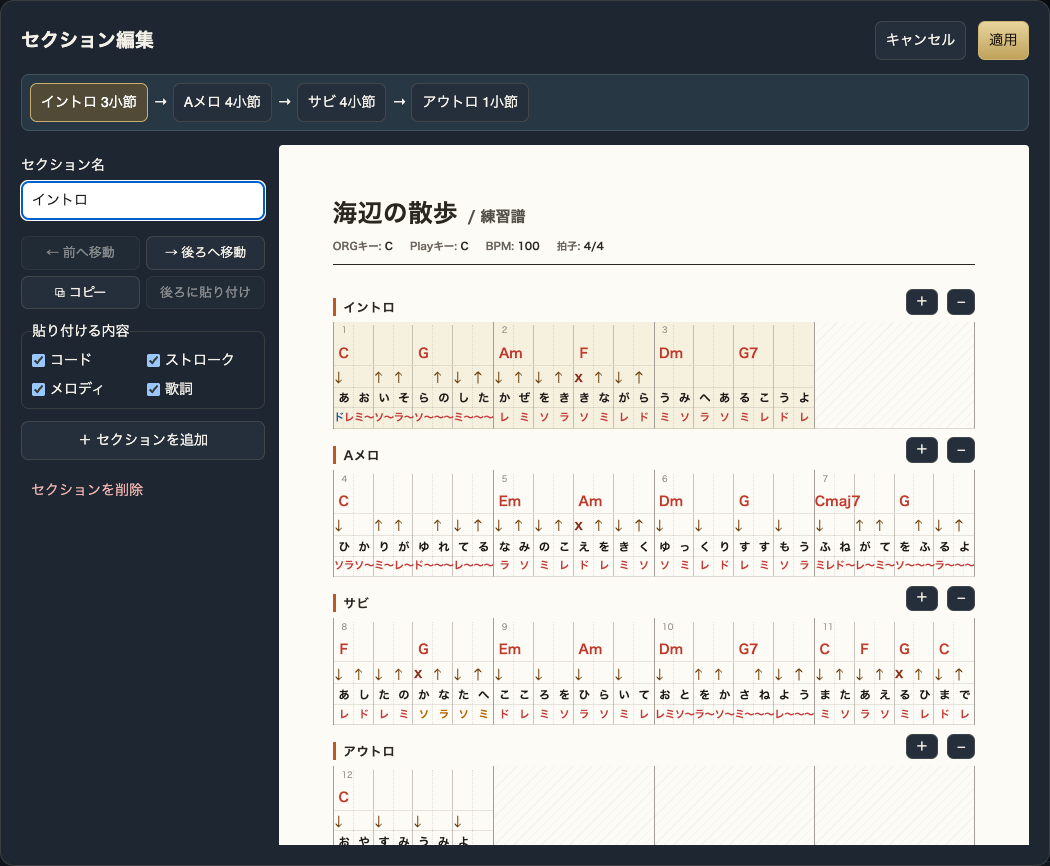
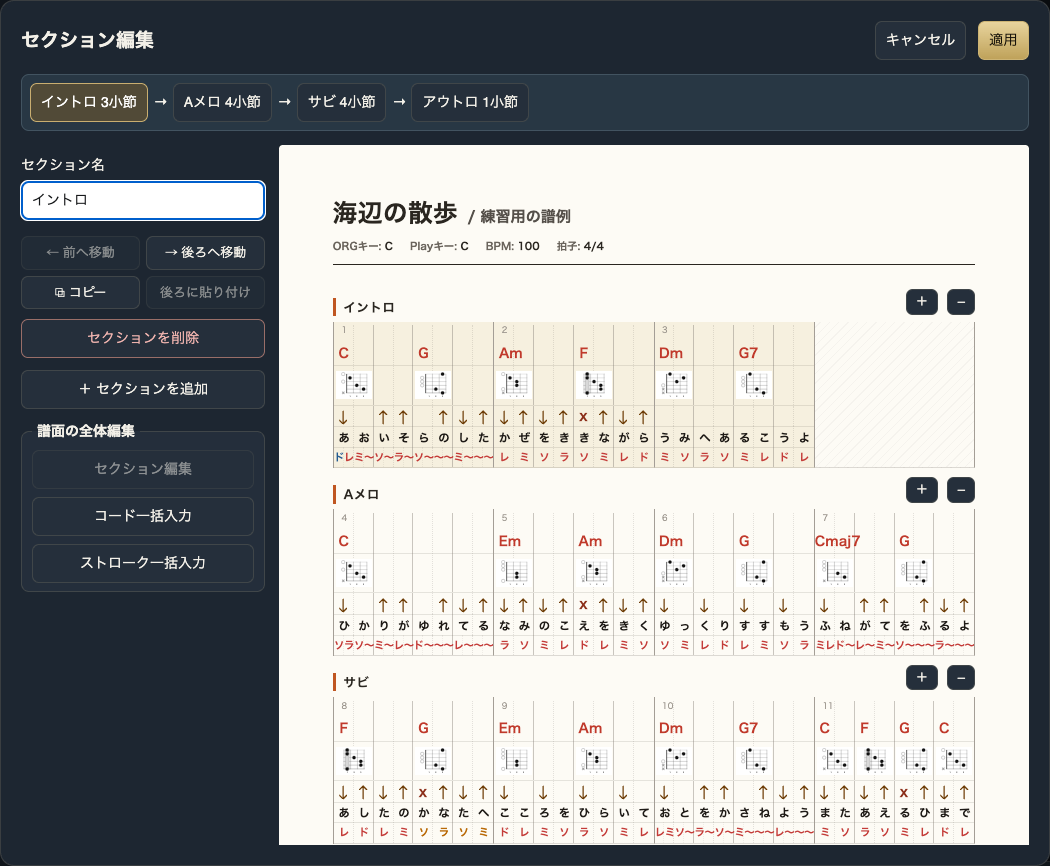
Simplify section editing, preserve draft navigation and import bookshelf fingerings

Changed region(s): [[0.3048, 0.4053, 0.9448, 0.9977], [0.0305, 0.3741, 0.2438, 0.6859], [0.4876, 0.2182, 0.5486, 0.2806]]

diff --git a/apps/cruise-studio/score-guide/index.html b/apps/cruise-studio/score-guide/index.html
@@ -10,7 +10,7 @@
 #browser-saving h3{margin:0}#browser-saving dl{margin-bottom:0}#browser-saving dt{padding-top:.7rem;border-top:1px solid #e0dbce}#browser-saving dd+dd{margin-top:.4em}
 .save-recommendation{text-decoration:underline;text-decoration-color:#b39050;text-underline-offset:.22em;text-decoration-thickness:2px}
 </style>
-<header id="top"><p>Cruise Studio · Ver. 0.224.0-rc.1</p><h1>譜面クルーズ 取扱説明書</h1><p>曲を作り、小節に演奏を入力し、印刷・配布するまでの操作を説明します。チュートリアルでは「そらまで」、機能別の解説では「海辺の散歩」を使います。</p></header>
+<header id="top"><p>Cruise Studio · Ver. 0.225.0-rc.1</p><h1>譜面クルーズ 取扱説明書</h1><p>曲を作り、小節に演奏を入力し、印刷・配布するまでの操作を説明します。チュートリアルでは「そらまで」、機能別の解説では「海辺の散歩」を使います。</p></header>
 <section id="overview" class="opening"><h2>画面の見かた</h2><p>操作は上、譜面は中央、再生は下にあります。左のスタジオメニューから他のツールにも移動できます。</p>
 <figure><div class="capture"><img src="overview.png" width="1440" height="1000" alt="スタジオの中で譜面クルーズを開いた画面全体"><svg aria-hidden="true" viewBox="0 0 1440 1000"><rect x="241" y="178" width="1159" height="201" rx="5" fill="none" stroke="#c32820" stroke-width="3"/><circle cx="238" cy="175" r="20" fill="#ab271e" stroke="white" stroke-width="2"/><text x="238" y="182.6" text-anchor="middle" font-family="sans-serif" font-size="24" font-weight="bold" fill="white">1</text><rect x="481" y="594" width="678" height="111" rx="5" fill="none" stroke="#c32820" stroke-width="3"/><circle cx="478" cy="591" r="20" fill="#ab271e" stroke="white" stroke-width="2"/><text x="478" y="598.6" text-anchor="middle" font-family="sans-serif" font-size="24" font-weight="bold" fill="white">2</text><rect x="241" y="929" width="1159" height="60" rx="5" fill="none" stroke="#c32820" stroke-width="3"/><circle cx="238" cy="926" r="20" fill="#ab271e" stroke="white" stroke-width="2"/><text x="238" y="933.6" text-anchor="middle" font-family="sans-serif" font-size="24" font-weight="bold" fill="white">3</text></svg></div><figcaption><ul class="legend"><li><b>1</b>上部カードで曲とツールを選ぶ</li><li><b>2</b>譜面で編集・再生する小節を選ぶ</li><li><b>3</b>再生、テンポ、音量を操作する</li></ul></figcaption></figure>
 <p><a href="#lesson">最初の1曲を作ってみる ↓</a></p></section>
@@ -66,12 +66,12 @@
 <section id="song"><h2>曲情報・キー・カポ</h2><p>譜面のタイトル、BPM、拍子、ORGキー、Playキー、またはメニューの「曲情報」を押します。曲名・アーティスト・テンポ・拍子は右の譜面で確かめてから「適用」します。</p><figure><div class="capture"><img src="song.png" width="1120" height="800" alt="左で曲情報を設定し、右の譜面で確認する画面"><svg aria-hidden="true" viewBox="0 0 1120 799"><rect x="22" y="111" width="257" height="37" rx="5" fill="none" stroke="#c32820" stroke-width="3"/><circle cx="19" cy="108" r="13" fill="#ab271e" stroke="white" stroke-width="2"/><text x="19" y="112.9" text-anchor="middle" font-family="sans-serif" font-size="16" font-weight="bold" fill="white">1</text><rect x="22" y="336" width="257" height="34" rx="5" fill="none" stroke="#c32820" stroke-width="3"/><circle cx="19" cy="333" r="13" fill="#ab271e" stroke="white" stroke-width="2"/><text x="19" y="337.9" text-anchor="middle" font-family="sans-serif" font-size="16" font-weight="bold" fill="white">2</text><rect x="1049" y="22" width="49" height="37" rx="5" fill="none" stroke="#c32820" stroke-width="3"/><circle cx="1046" cy="19" r="13" fill="#ab271e" stroke="white" stroke-width="2"/><text x="1046" y="23.9" text-anchor="middle" font-family="sans-serif" font-size="16" font-weight="bold" fill="white">3</text></svg></div><figcaption><ul class="legend"><li><b>1</b>曲名を入力</li><li><b>2</b>拍子を選択</li><li><b>3</b>曲情報を適用</li></ul></figcaption></figure><p>ORGキーは原曲の調、Playキーは演奏に使うキー・カポの組み合わせです。「移調・カポの変更前後を確認」またはメニューの「キー・カポ」を開き、コードの変更前後を見比べて適用します。「曲情報」画面の左下には「セクション編集」「コード一括入力」「ストローク一括入力」もあります。</p></section>
 <section id="bars"><h2>小節を選ぶ・移動する</h2><p>小節をクリックすると上部カードに小節操作が出ます。続けて同じ小節をクリックするか「編集」で入力へ進みます。複数小節は先頭から末尾へドラッグするか、最初をクリックして最後をShift＋クリックします。譜面の余白で選択を解除します。</p><dl><dt>小節追加・複製</dt><dd>選択位置の後ろに空の小節、または選んだ内容のコピーを追加します。</dd><dt>コピー・貼り付け</dt><dd>元の範囲をコピーし、貼り始める位置を選びます。「上書き貼り付け」は既存の位置を置き換え、「挿入して貼り付け」は後ろの小節を送ります。</dd><dt>移動</dt><dd>前へ・後ろへ移動するボタンで並びを変えます。セクション境界では移動後の所属も確認します。</dd><dt>削除</dt><dd>「枠を残して削除」は譜面上の場所を空き枠として残します。「詰めて削除」は後ろの小節を前へ詰めます。空き枠は再生されません。</dd></dl></section>
 <section id="edit"><h2>小節編集と鍵盤・フォーム入力</h2><figure><div class="capture"><img src="editor.png" width="960" height="339" alt="小節編集のコード・ストローク・歌詞・メロディの行と拍の区切り"><svg aria-hidden="true" viewBox="0 0 960 338"><rect x="113" y="71" width="101" height="40" rx="5" fill="none" stroke="#c32820" stroke-width="3"/><circle cx="110" cy="68" r="13" fill="#ab271e" stroke="white" stroke-width="2"/><text x="110" y="72.9" text-anchor="middle" font-family="sans-serif" font-size="16" font-weight="bold" fill="white">1</text><rect x="113" y="118" width="101" height="40" rx="5" fill="none" stroke="#c32820" stroke-width="3"/><circle cx="110" cy="115" r="13" fill="#ab271e" stroke="white" stroke-width="2"/><text x="110" y="119.9" text-anchor="middle" font-family="sans-serif" font-size="16" font-weight="bold" fill="white">2</text></svg></div><figcaption><ul class="legend"><li><b>1</b>コードを入力</li><li><b>2</b>ストロークを入力</li></ul></figcaption></figure><p>上の「1小節」〜「4小節」は編集する範囲、「前へ」「次へ」は小節移動です。倍率ボタンでマスを拡大できます。「右窓へ」で編集画面の置き場所を切り替えます。編集画面内の「？」で入力中にも操作を確認できます。</p>
-<dl><dt>コード・フォーム</dt><dd>コード行のマスをクリックしてEmやG/Bなどを入力します。選択中のマスをもう一度クリックすると文字単位で直せます。行名の▼からコード・フォームを選べます。譜面または譜面下のフォーム一覧で図をクリックし、拡大図の「編集」を押すと、そのコードの小節編集が開きます。「詳細設定」を押すと、指板が「運指」で開きます。一覧で同じフォームが複数箇所にあるときは、「編集する位置」で小節と拍を選ぶと、その箇所だけを編集できます。「全て」を選んで「編集」を押すと、小節編集と同じフォームパネルが単独で開きます。コード名やダイアトニックコードを選び、図または「詳細設定」の指板で押さえ方を変更できます。最後に「反映」を押します。「コード本棚に保存」を押すと、コードクルーズが別タブで開きます。フォルダを選び、「保存する」を押すと本棚に追加されます。「詳細設定」の「表示範囲」は、押さえる位置に合わせて自動で決まります。指板の番号帯にある左右のつまみをドラッグするか、「開始」「終了」にフレット番号を入力すると、そのフォームの範囲を指定できます。「自動」にチェックを戻すと解除できます。</dd>
+<dl><dt>コード本棚のフォームを取り込む</dt><dd>コードの編集カードで「コード本棚を開く」→「本棚からフォームを書き出す」を押します。別タブの本棚でコードを選び、元のタブの「JSONファイルを読み込む」で取り込んでください。コード図を押すと、選んだマスにコードとフォームが入ります。ベース・テンションに指定した運指も使えます。</dd><dt>コード・フォーム</dt><dd>コード行のマスをクリックしてEmやG/Bなどを入力します。選択中のマスをもう一度クリックすると文字単位で直せます。行名の▼からコード・フォームを選べます。譜面または譜面下のフォーム一覧で図をクリックし、拡大図の「編集」を押すと、そのコードの小節編集が開きます。「詳細設定」を押すと、指板が「運指」で開きます。一覧で同じフォームが複数箇所にあるときは、「編集する位置」で小節と拍を選ぶと、その箇所だけを編集できます。「全て」を選んで「編集」を押すと、小節編集と同じフォームパネルが単独で開きます。コード名やダイアトニックコードを選び、図または「詳細設定」の指板で押さえ方を変更できます。最後に「反映」を押します。「コード本棚に保存」を押すと、コードクルーズが別タブで開きます。フォルダを選び、「保存する」を押すと本棚に追加されます。「詳細設定」の「表示範囲」は、押さえる位置に合わせて自動で決まります。指板の番号帯にある左右のつまみをドラッグするか、「開始」「終了」にフレット番号を入力すると、そのフォームの範囲を指定できます。「自動」にチェックを戻すと解除できます。</dd>
 <dt>ストローク</dt><dd>Dは↓、Uは↑、Xはミュート。マスの再クリックや上下キーでも切り替えられます。〜は直前の音を伸ばす指定です。RまたはSpaceは休符、Delete／Backspaceは空欄です。長い音価の記号も弾き始める位置を示します。</dd>
 <dt>歌詞・メロディ</dt><dd>歌い始めるマスに文字を入れます。メロディは行名横の▼から鍵盤でも入力できます。音の高さを確認して試聴します。表示設定では歌詞・メロディの文字サイズと字間を個別に調節できます。</dd>
 <dt>音価・拍ごとの固定</dt><dd>行名横の数字で行の入力単位を選びます。特定の拍だけ細かくしたい場合は拍の右下の数字を押します。鍵付きの拍は行の単位を変えても固定されます。「…」のマスは、単位を細かくすると中の入力を確認できます。</dd>
 <dt>マスのコピー・移動</dt><dd>同じ行をドラッグまたはShift＋クリックで選び、⌘／Ctrl＋C、貼り始めるマスで⌘／Ctrl＋V。伸ばしは先頭の音と一緒に選びます。入力済みマスの左下の点をドラッグすると移動先を上書きします。</dd></dl></section>
-<section id="sections"><h2>セクションを組み立てる</h2><p>左下の「譜面の全体編集」から「コード一括入力」または「ストローク一括入力」を開くと、編集中のセクション名や小節数も適用されます。</p><figure><div class="capture"><img src="sections.png" width="1050" height="866" alt="セクションの順序、内容と譜面のプレビュー"><svg aria-hidden="true" viewBox="0 0 1050 866"><rect x="22" y="75" width="1006" height="55" rx="5" fill="none" stroke="#c32820" stroke-width="3"/><circle cx="19" cy="72" r="13" fill="#ab271e" stroke="white" stroke-width="2"/><text x="19" y="76.9" text-anchor="middle" font-family="sans-serif" font-size="16" font-weight="bold" fill="white">1</text><rect x="22" y="146" width="242" height="362" rx="5" fill="none" stroke="#c32820" stroke-width="3"/><circle cx="19" cy="143" r="13" fill="#ab271e" stroke="white" stroke-width="2"/><text x="19" y="147.9" text-anchor="middle" font-family="sans-serif" font-size="16" font-weight="bold" fill="white">2</text><rect x="979" y="22" width="49" height="37" rx="5" fill="none" stroke="#c32820" stroke-width="3"/><circle cx="976" cy="19" r="13" fill="#ab271e" stroke="white" stroke-width="2"/><text x="976" y="23.9" text-anchor="middle" font-family="sans-serif" font-size="16" font-weight="bold" fill="white">3</text></svg></div><figcaption><ul class="legend"><li><b>1</b>編集するセクションを選択</li><li><b>2</b>選択したセクションを編集</li><li><b>3</b>変更を適用</li></ul></figcaption></figure><p>譜面の「イントロ」「Aメロ」などの見出しを押してセクション編集を開きます。対象を選び、名前・曲中の順序・小節数を調整します。繰り返す部分を選んで「コピー」を押します。挿入位置のセクションを選び、「貼り付ける内容」で必要なパートにチェックを入れ、「後ろに貼り付け」を押します。右の譜面で各セクションの「＋」「−」を押すと、その末尾の小節を増減できます。削除すると中の小節も対象になるため、プレビューで前後を確認して「適用」します。</p></section>
+<section id="sections"><h2>セクションを組み立てる</h2><p>左下の「譜面の全体編集」から「コード一括入力」または「ストローク一括入力」を開くと、編集中のセクション名や小節数も適用されます。</p><figure><div class="capture"><img src="sections.png" width="1050" height="866" alt="セクションの順序、内容と譜面のプレビュー"><svg aria-hidden="true" viewBox="0 0 1050 866"><rect x="22" y="75" width="1006" height="55" rx="5" fill="none" stroke="#c32820" stroke-width="3"/><circle cx="19" cy="72" r="13" fill="#ab271e" stroke="white" stroke-width="2"/><text x="19" y="76.9" text-anchor="middle" font-family="sans-serif" font-size="16" font-weight="bold" fill="white">1</text><rect x="22" y="146" width="242" height="212" rx="5" fill="none" stroke="#c32820" stroke-width="3"/><circle cx="19" cy="143" r="13" fill="#ab271e" stroke="white" stroke-width="2"/><text x="19" y="147.9" text-anchor="middle" font-family="sans-serif" font-size="16" font-weight="bold" fill="white">2</text><rect x="979" y="22" width="49" height="37" rx="5" fill="none" stroke="#c32820" stroke-width="3"/><circle cx="976" cy="19" r="13" fill="#ab271e" stroke="white" stroke-width="2"/><text x="976" y="23.9" text-anchor="middle" font-family="sans-serif" font-size="16" font-weight="bold" fill="white">3</text></svg></div><figcaption><ul class="legend"><li><b>1</b>編集するセクションを選択</li><li><b>2</b>選択したセクションを編集</li><li><b>3</b>変更を適用</li></ul></figcaption></figure><p>譜面の「イントロ」「Aメロ」などの見出しを押してセクション編集を開きます。対象を選び、名前・曲中の順序・小節数を調整します。繰り返す部分を選んで「コピー」を押します。挿入位置のセクションを選び、「後ろに貼り付け」を押します。「貼り付ける内容」で必要なパートにチェックを入れ、「実行」を押します。右の譜面で各セクションの「＋」「−」を押すと、その末尾の小節を増減できます。削除すると中の小節も対象になるため、プレビューで前後を確認して「適用」します。</p></section>
 <section id="batch"><h2>コード・ストローク一括入力</h2><h3>コード進行を置く</h3><p>「メニュー」→「コード一括」でプリセットを選び、譜面上の開始小節を押します。選択色が付いた小節が入力先です。セクション名や範囲選択で同じ進行を繰り返す範囲を指定できます。「適用」を押すと下の譜面に進行が入ります。譜面を確認して右上の「OK」で確定します。選択範囲のコードをまとめて消す場合はDeleteを使います。</p><figure><div class="capture"><img src="chords.png" width="960" height="940" alt="コード進行のプリセットと入力先の選択"><svg aria-hidden="true" viewBox="0 0 960 940"><rect x="109" y="67" width="200" height="40" rx="5" fill="none" stroke="#c32820" stroke-width="3"/><circle cx="106" cy="64" r="13" fill="#ab271e" stroke="white" stroke-width="2"/><text x="106" y="68.9" text-anchor="middle" font-family="sans-serif" font-size="16" font-weight="bold" fill="white">1</text><rect x="164" y="568" width="174" height="116" rx="5" fill="none" stroke="#c32820" stroke-width="3"/><circle cx="161" cy="565" r="13" fill="#ab271e" stroke="white" stroke-width="2"/><text x="161" y="569.9" text-anchor="middle" font-family="sans-serif" font-size="16" font-weight="bold" fill="white">2</text><rect x="421" y="303" width="80" height="30" rx="5" fill="none" stroke="#c32820" stroke-width="3"/><circle cx="418" cy="300" r="13" fill="#ab271e" stroke="white" stroke-width="2"/><text x="418" y="304.9" text-anchor="middle" font-family="sans-serif" font-size="16" font-weight="bold" fill="white">3</text><rect x="902" y="18" width="40" height="30" rx="5" fill="none" stroke="#c32820" stroke-width="3"/><circle cx="899" cy="15" r="13" fill="#ab271e" stroke="white" stroke-width="2"/><text x="899" y="19.9" text-anchor="middle" font-family="sans-serif" font-size="16" font-weight="bold" fill="white">4</text></svg></div><figcaption><ul class="legend"><li><b>1</b>コード進行を選択</li><li><b>2</b>入力先の先頭小節を選択</li><li><b>3</b>適用して譜面を確認</li><li><b>4</b>OKで確定</li></ul></figcaption></figure>
 <h3>リズムを置く</h3><p>「メニュー」→「ストローク一括」で4分・8分・16分などのプリセットを選び、入力先を指定します。「曲全て」は全曲が対象です。「適用」を押し、下の譜面で矢印を確認します。下の「再生」で伴奏を試聴し、右上の「OK」で確定します。</p><figure><div class="capture"><img src="strokes.png" width="960" height="940" alt="ストロークのパターンを選択して譜面に適用する画面"><svg aria-hidden="true" viewBox="0 0 960 940"><rect x="109" y="67" width="181" height="40" rx="5" fill="none" stroke="#c32820" stroke-width="3"/><circle cx="106" cy="64" r="13" fill="#ab271e" stroke="white" stroke-width="2"/><text x="106" y="68.9" text-anchor="middle" font-family="sans-serif" font-size="16" font-weight="bold" fill="white">1</text><rect x="164" y="633" width="174" height="116" rx="5" fill="none" stroke="#c32820" stroke-width="3"/><circle cx="161" cy="630" r="13" fill="#ab271e" stroke="white" stroke-width="2"/><text x="161" y="634.9" text-anchor="middle" font-family="sans-serif" font-size="16" font-weight="bold" fill="white">2</text><rect x="323" y="324" width="80" height="30" rx="5" fill="none" stroke="#c32820" stroke-width="3"/><circle cx="320" cy="321" r="13" fill="#ab271e" stroke="white" stroke-width="2"/><text x="320" y="325.9" text-anchor="middle" font-family="sans-serif" font-size="16" font-weight="bold" fill="white">3</text><rect x="902" y="18" width="40" height="30" rx="5" fill="none" stroke="#c32820" stroke-width="3"/><circle cx="899" cy="15" r="13" fill="#ab271e" stroke="white" stroke-width="2"/><text x="899" y="19.9" text-anchor="middle" font-family="sans-serif" font-size="16" font-weight="bold" fill="white">4</text></svg></div><figcaption><ul class="legend"><li><b>1</b>ストロークパターンを選択</li><li><b>2</b>入力先を選択</li><li><b>3</b>適用して譜面を確認</li><li><b>4</b>OKで確定</li></ul></figcaption></figure>
 <p>手持ちの進行やリズムは「譜面からプリセット追加」で元の範囲を選び、内容を整えて名前を付けます。「プリセットを編集」ではパターンを変更できます。ストロークは対応するリズムクルーズのプリセットJSONも読み込めます。再利用する素材は「プリセットに保存」してください。</p></section>

diff --git a/apps/cruise-studio/js/modules/sheet-cruise/sheet-cruise.js b/apps/cruise-studio/js/modules/sheet-cruise/sheet-cruise.js
@@ -1051,7 +1051,7 @@
     }
 
     var leavePending = null;
-    // B-owned continuation contract. Shell must call this before changing workspace.
+    // Confirm explicit song changes. Studio workspace switches retain editing sessions.
     function requestLeave(continueAction) {
         if(leavePending || typeof continueAction!=='function')return false;
         var sessions=CS().sessions.listSessions(), owner=state.session, workspace=CS().shellHost.getActiveWorkspace();
@@ -1426,6 +1426,8 @@ dialog.sc-save-place{box-sizing:border-box;width:min(25rem,calc(100vw - 32px));m
 
 .sc-save-place p.sc-save-footnote{margin:14px 0 0;padding-top:12px;border-top:1px solid var(--studio-border-default);color:var(--studio-text-secondary);font-size:.82rem;line-height:1.65;}
 .sc-save-place .sc-save-footnote a{white-space:nowrap;}
+.sc-leave-actions .btn-primary:enabled,.sc-save-place footer .btn-primary:focus{outline:2px solid var(--studio-focus);outline-offset:2px;}
+.sc-leave-actions:has(.btn-ghost:focus-visible) .btn-primary{outline:none;}
 .sc-leave-actions{display:flex;flex-wrap:wrap;justify-content:flex-end;gap:10px;}
 .sc-leave-actions button{max-width:100%;min-height:40px;padding:8px 14px;border-radius:8px;}
 .sc-file-list>div{padding:4px;}
@@ -1688,9 +1690,9 @@ dialog.sc-save-place{box-sizing:border-box;width:min(25rem,calc(100vw - 32px));m
 #sc-slot-overlay .dock-lyrics-cell:focus {background:var(--slot-input-surface);}
 #sc-slot-overlay .slot-overlay-row-note {font-size:calc(10px * var(--bar-loupe-scale,1));}
 #sc-slot-overlay .slot-overlay-resize-handle {width:calc(24px * var(--bar-loupe-scale,1));height:calc(24px * var(--bar-loupe-scale,1));}
-#screen-sheet-cruise>.workspace-local-nav{top:0;}
+#screen-sheet-cruise>.workspace-local-nav{position:static;}
 #screen-sheet-cruise .form-field:has(#sc-basic-strum),#screen-sheet-cruise:has(.sc-compact-toolbar) #sc-editor-drawer:not([open]){display:none;}
-#screen-sheet-cruise .sc-compact-toolbar{gap:10px;overflow:visible;zoom:var(--sc-toolbar-scale,1);top:calc(52px / var(--sc-toolbar-scale,1));}
+#screen-sheet-cruise .sc-compact-toolbar{gap:10px;overflow:visible;zoom:var(--sc-toolbar-scale,1);top:0;}
 #screen-sheet-cruise .sc-toolbar-scale{position:absolute;right:1px;bottom:1px;width:18px;height:18px;min-height:0;padding:0;border:0;border-radius:0 0 5px 0;background:repeating-linear-gradient(135deg,transparent 0 2px,var(--studio-text-secondary) 2px 3px,transparent 3px 5px);clip-path:polygon(100% 0,100% 100%,0 100%);cursor:nwse-resize;touch-action:none;}
 #screen-sheet-cruise .sc-toolbar-scale:focus-visible{background:var(--studio-focus);}
 @media(pointer:coarse){#screen-sheet-cruise .sc-compact-toolbar{zoom:1;}#screen-sheet-cruise .sc-toolbar-scale{display:none;}}
@@ -2037,7 +2039,8 @@ dialog.sc-save-place{box-sizing:border-box;width:min(25rem,calc(100vw - 32px));m
 .sc-section-workspace aside .sc-song-tool-buttons{display:grid;}
 .sc-section-workspace aside fieldset label{margin:0;align-items:center!important;}
 .sc-section-workspace aside small{color:var(--studio-text-secondary);overflow-wrap:anywhere;}
-.sc-section-workspace aside .sc-section-delete{justify-self:start;border:0;background:transparent;color:#efb3ae;}
+.sc-section-workspace .sc-paste-source{grid-column:1/-1;}
+.sc-section-workspace aside .sc-section-delete{border:1px solid #996e68;color:#efb3ae;margin-top:4px;}
 .sc-song-dialog>header>h2,.sc-actions-dialog>header>h2{margin-right:auto;}
 .sc-section-preview{max-height:70vh;overflow:auto;min-width:0;background:#18232b;}
 .sc-section-preview .sheet-section-heading{display:flex;align-items:center;gap:5px;}
@@ -6056,7 +6059,8 @@ dialog.sc-save-place{box-sizing:border-box;width:min(25rem,calc(100vw - 32px));m
         const dialog=document.createElement('dialog'),title=document.createElement('h2');
         dialog.className='sc-location-dialog sc-save-place';
         dialog.setAttribute('aria-label',heading);title.textContent=heading;
-        dialog.append(title);els.root.append(dialog);
+        const parent=leavePending?.saving ? CS().shellHost.modal.getActive() : null;
+        dialog.append(title);(parent || els.root).append(dialog);
         dialog.addEventListener('close',()=>dialog.remove(),{once:true});
         return dialog;
     }
@@ -6098,7 +6102,7 @@ dialog.sc-save-place{box-sizing:border-box;width:min(25rem,calc(100vw - 32px));m
     const reminderKey='scoreFilePermissionReminder';
     function reminderSelect(setting){
         const label=document.createElement('label'),select=document.createElement('select');
-        label.className='sc-reminder-frequency';label.append('案内の表示',select);
+        label.className='sc-reminder-frequency';label.append('この案内',select);
         for(const [value,text] of [['always','毎回表示する'],['sometimes','ときどき表示する（30日ごと）'],['never','次回から表示しない']]){
             select.add(new Option(text,value));
         }
@@ -6465,7 +6469,7 @@ dialog.sc-save-place{box-sizing:border-box;width:min(25rem,calc(100vw - 32px));m
         q('sc-goto-pre-dtm').addEventListener('click', function () {
             if (state.session && state.session.inputPending) { setSaveStatus('入力の確定を待ってください', true); return; }
             finishTextInputs();
-            requestLeave(function(){CS().shellHost.navigate('preDtm');});
+            CS().shellHost.navigate('preDtm');
         });
         [els.undoBtn, els.redoBtn].forEach(function (button) {
             button.addEventListener('pointerdown', function (event) {

diff --git a/apps/cruise-studio/js/core/modal-manager.js b/apps/cruise-studio/js/core/modal-manager.js
@@ -53,6 +53,9 @@
             close: close,
             capture: function (event) {
                 if (!active || active.suspended || event.defaultPrevented) return;
+                // A nested native dialog (for example the file-save reminder) owns its keyboard interaction.
+                var nested = event.target.closest?.('dialog[open]');
+                if (nested && nested !== active.element && active.element.contains(nested)) return;
                 // Browser-owned chords (including Ctrl+Tab and developer tools) stay native.
                 if (event.metaKey || event.ctrlKey || event.altKey || /^F\d+$/.test(event.key)) {
                     if (!active.element.contains(event.target)) event.stopImmediatePropagation();

diff --git a/apps/cruise-studio/shell.css b/apps/cruise-studio/shell.css
@@ -221,7 +221,7 @@ body { height: 100%; overflow: hidden; background: var(--studio-app-bg); }
     font: inherit; color: var(--studio-text-primary); background: var(--studio-control);
     border: 1px solid var(--studio-field-border); border-radius: 4px; padding: 8px;
 }
-.studio-modal:focus-visible, .studio-modal :focus-visible, .studio-dock:focus-visible, .studio-dock :focus-visible,
+.studio-modal:focus-visible, .studio-modal :focus-visible, .studio-modal button:focus, .studio-dock:focus-visible, .studio-dock :focus-visible,
 .studio-main .screen:focus-visible, .studio-main .pd-setting-field select:focus-visible {
     outline: 2px solid var(--studio-focus); outline-offset: 2px;
 }

diff --git a/apps/cruise-studio/edition-candidates/score/score-candidate-features.js b/apps/cruise-studio/edition-candidates/score/score-candidate-features.js
@@ -1,4 +1,4 @@
 /* Candidate edition policy. Pro admission is independently enforced by Studio. */
 Object.defineProperty(window.CruiseStudio, 'releaseFeatures', {
-    value: Object.freeze({scoreVersion:"0.224.0-rc.1", creation:true, allows:id => id !== 'preDtm'})
+    value: Object.freeze({scoreVersion:"0.225.0-rc.1", creation:true, allows:id => id !== 'preDtm'})
 });

diff --git a/apps/cruise-studio/docs/SCORE_VIEW_POLISH.md b/apps/cruise-studio/docs/SCORE_VIEW_POLISH.md
@@ -82,7 +82,7 @@ Node全体2116件：2072 PASS／39 FAIL／5 SKIP。失敗名は変更前0.103の
 - v1素材の条件を維持し、別encodingのv2素材におすすめ／手動／本棚とauto／fixedを記録する。コードと自動フォームを同じSession／Undo操作で登録する。既存素材は追記・参照変更のみで扱い、開いただけで変換しない。既存の固定フォームは名前変更時も保持し、不一致は要確認にする。
 - 拍入力、コード選択、従来の文字入力、まとめて入力、移調に同じ操作内のhookを用意する。タイトル変更等には登録しない。自動フォームのみの移調を許可し、固定フォームの従来の保護は維持する。新規は標準6弦・22F。既存で条件不明なら初回確認し、キャンセルは未確定入力として移動を防ぐ。
 - 手動編集は保存済みフォームを初期表示し、明示的に選んだCAGED型・ハイフレット候補も物理上限内で使う。弦別フレット／ミュート・指の編集とプレビュー、「固定して反映」を用意する。人による押さえ方の確認と、音の検証を分ける。
-- フォーム付きJSONは名前専用v1と別のformat/version。書出し補助は既存の選択レコードだけを読み、書戻し・認証情報取得・通信をしない。フォーム取込みは条件確認後、名前と固定フォームを同じUndo単位で入力する。不正・不明な弦、重複位置、未確定編集、ベース／テンション個別指定等は推測して変換しない。名前のみのJSONは引き続き利用できる。
+- フォーム付きJSONは名前専用v1と別のformat/version。書出し補助は既存の選択レコードだけを読み、書戻し・認証情報取得・通信をしない。フォーム取込みは条件確認後、名前と固定フォームを同じUndo単位で入力する。不正・不明な弦、重複位置、未確定編集、同じ弦の複数の個別指定等は推測して変換しない。名前のみのJSONは引き続き利用できる。
 
 検証：Chrome／WebKit各91件PASS。最後の外枠・viewport調整等も関連9件ずつPASS。実18874を含む既存回帰22件PASS。広域Nodeは2067 PASS／既存39 FAIL／5 SKIP（2111件）で、失敗名は前候補の既知39件と一致。新規authoringの7件は追加の高フレット・不正本棚条件も確認した。全試験PASSとは判定しない。原本の白黒／カラー描画、1行配置、18pxの実余白、390px／右窓／2小節、開閉、IME、Undo／Redo、保存・再読込・JSON、手動の固定と再編集、合成本棚からのフォームJSON実ダウンロードと取込み、旧対象拒否を検証した。
 

diff --git a/apps/cruise-studio/docs/CHORD_NAME_TRANSFER_GUIDE.md b/apps/cruise-studio/docs/CHORD_NAME_TRANSFER_GUIDE.md
@@ -33,7 +33,7 @@
 
 18874の取込みと接続していないPro単体の本棚で同じブックマークを実行すると、従来のJSON書出し画面になる。フォルダとコードを選び、名前のみ／フォーム付きの書出しボタンを押す。通常のPro入口は https://soundcruise.jp/apps/chord-cruise/pro_k7m4q9v2x8/ 。
 
-単一の6弦フォームにできない未確定状態や、ベース／テンションの個別指定を含むレコードは、フォーム送信・書出しを拒否する。名前のみは利用できる。
+ベースとテンションで個別に指定した運指も取り込める。同じ弦に複数の位置を指定している場合は、本棚で使う位置を1つに絞る。名前のみは利用できる。
 
 ## 譜面へ取り込む
 
